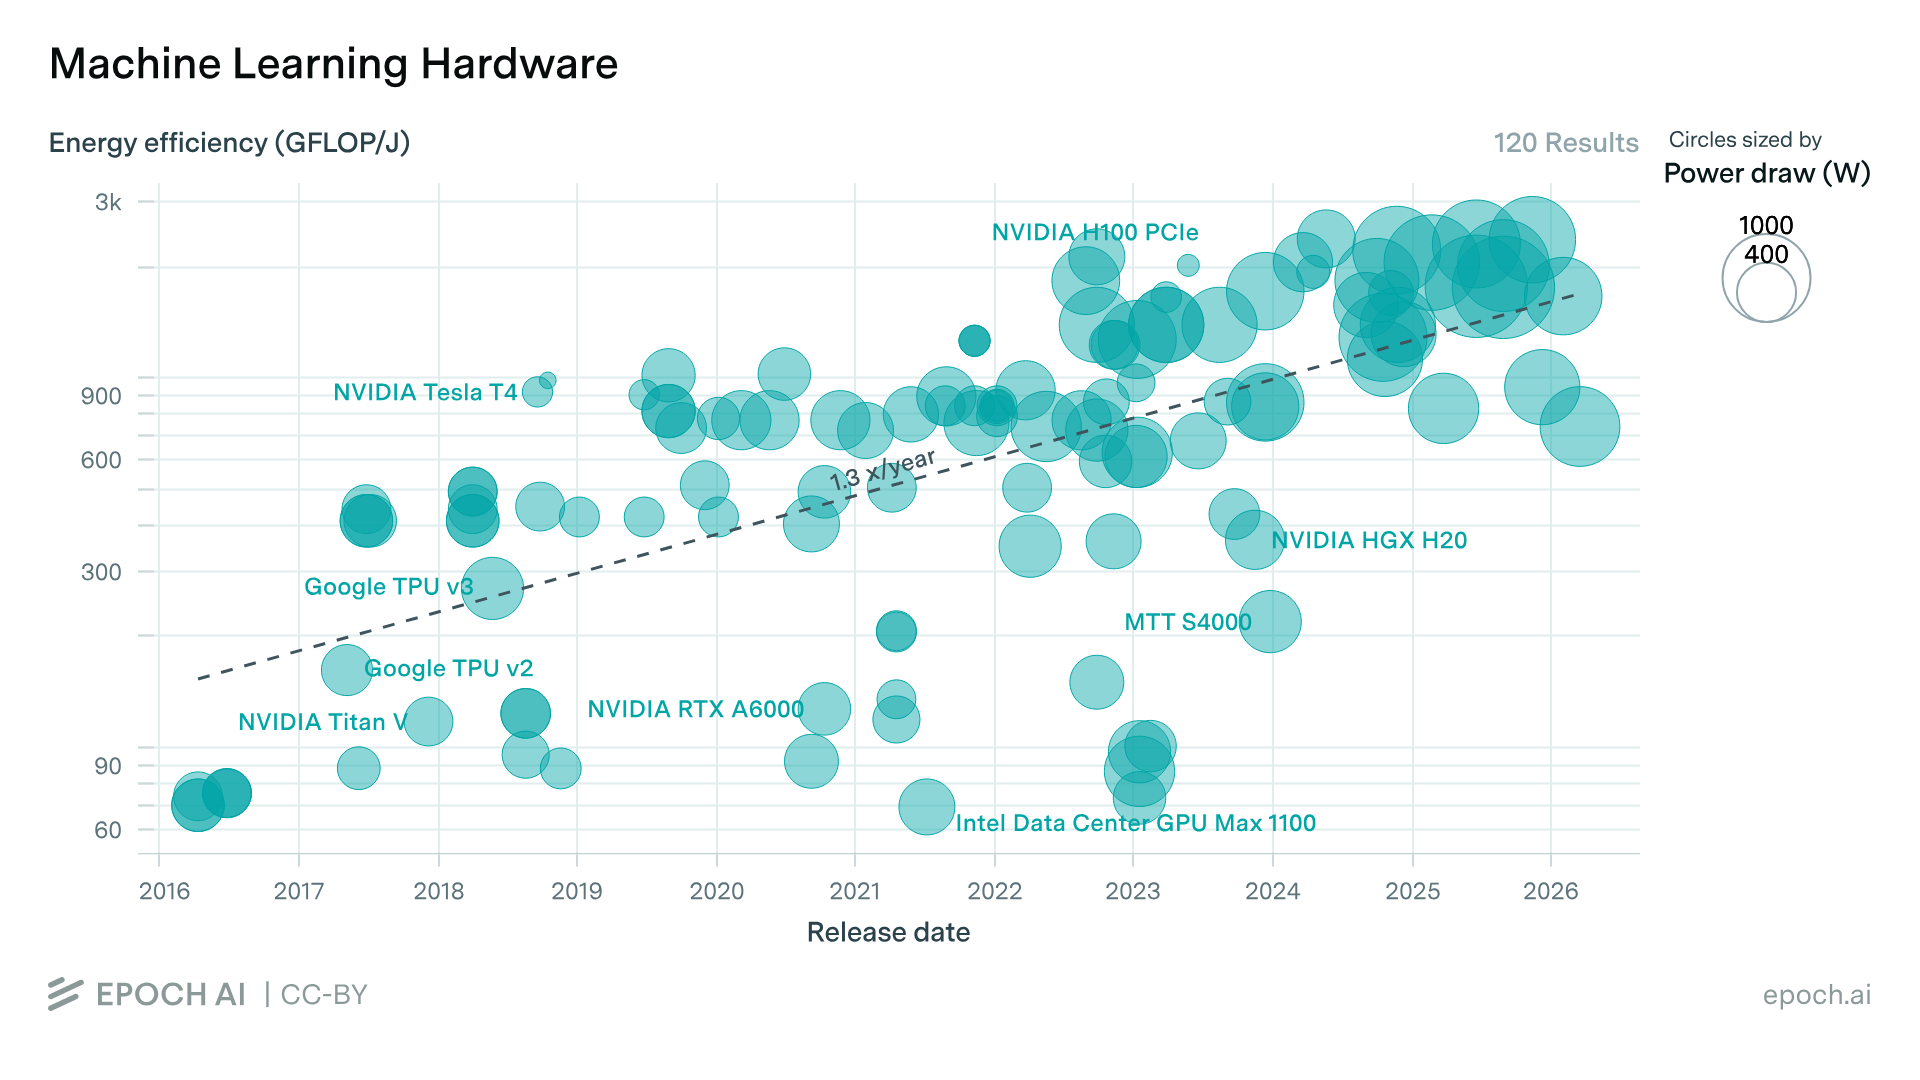
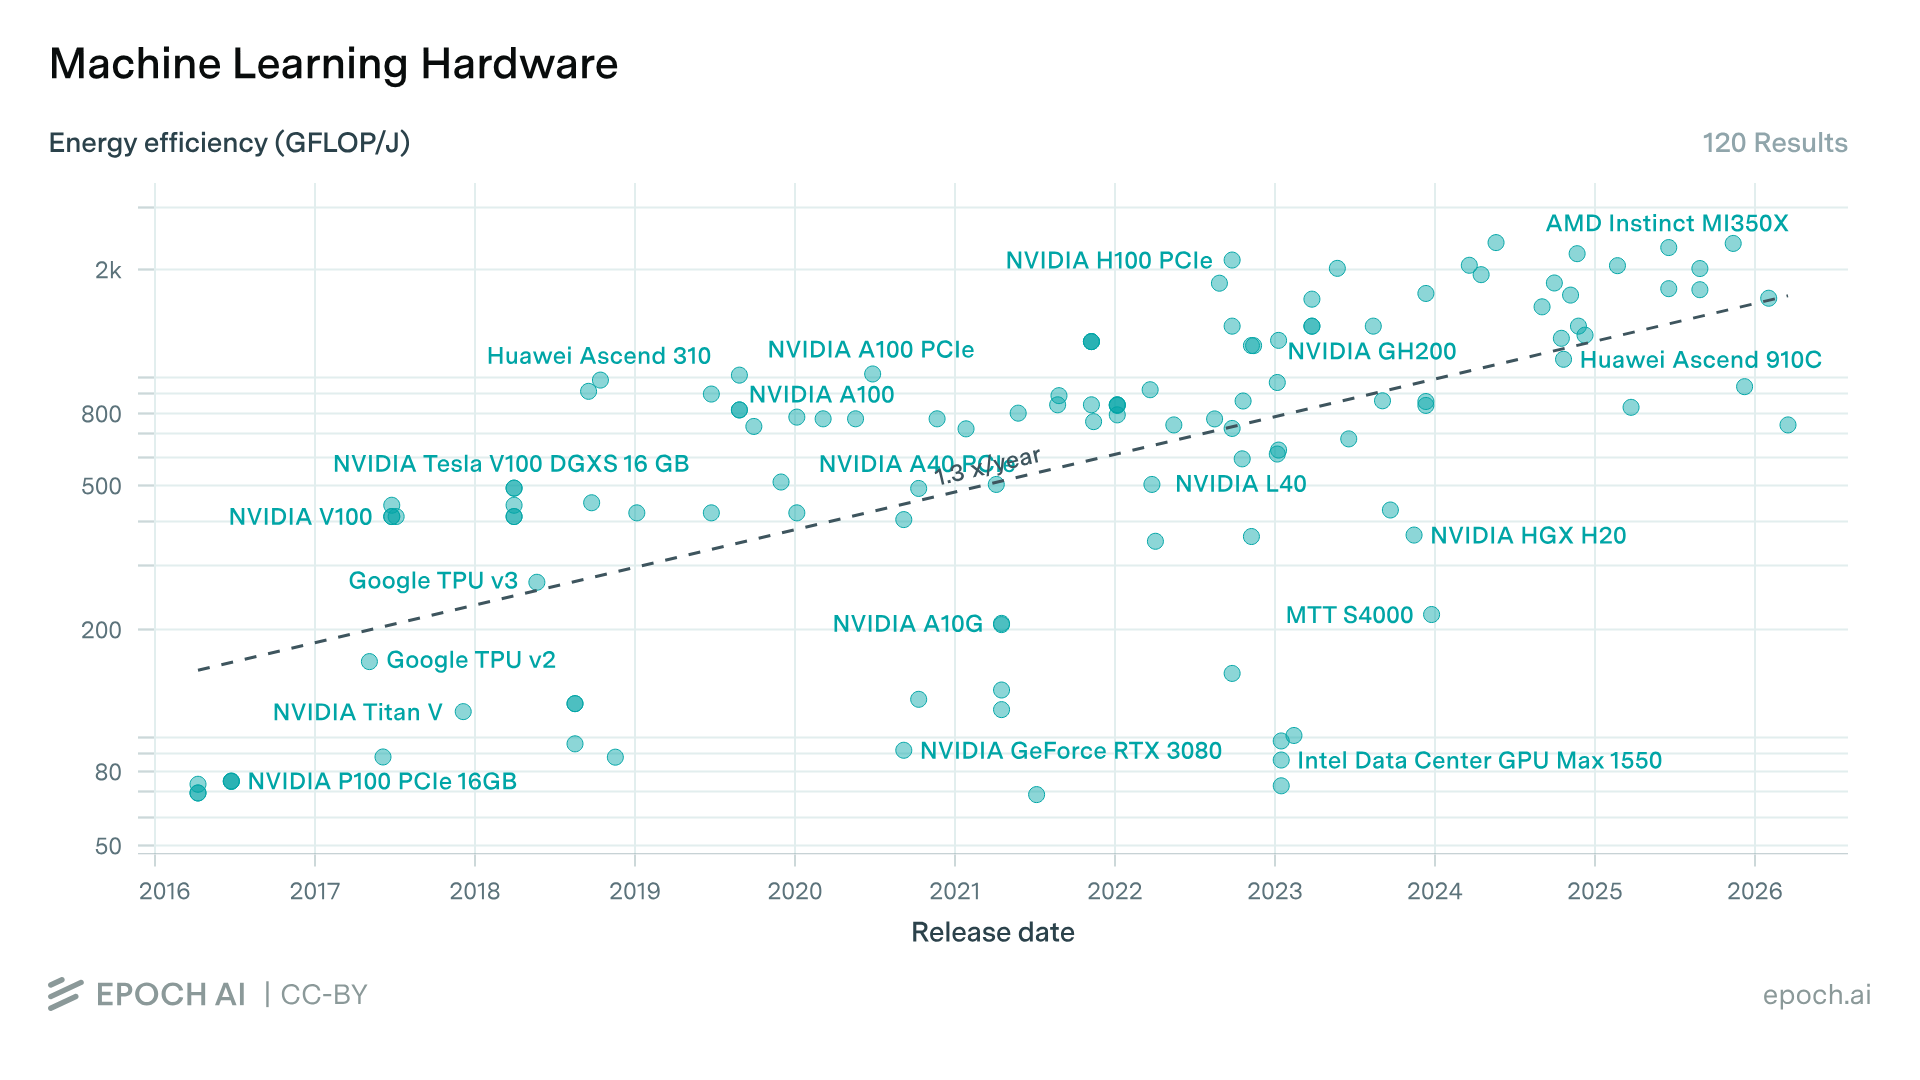
.

diff --git a/content/tokens-too-cheap-to-meter.md b/content/tokens-too-cheap-to-meter.md
@@ -344,7 +344,7 @@ Here are some things I think are possible, although not all of them are likely.
   Ideally, we'd see an resurgence in QA and UI/UX positions.
 - Renting software is going to become a lot more scarce.
   Software codebases stop being a moat; operations and security are the real drivers of value.
-  We'll see even more things like AWS Hosted Apache Kafka and even fewer things like JetBrains IDEs and Blackboard.
+  We'll see even more things like Amazon Managed Streaming for Apache Kafka and even fewer things like JetBrains IDEs and Blackboard.
 - Probably a lot more things! The future is getting weird!!
 
 [runpod]: https://www.runpod.io/
